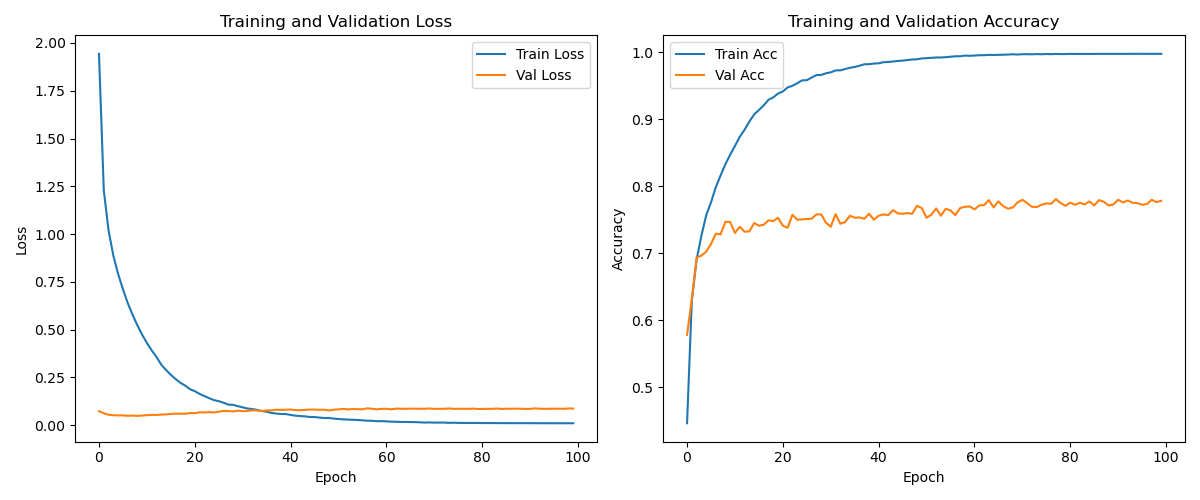
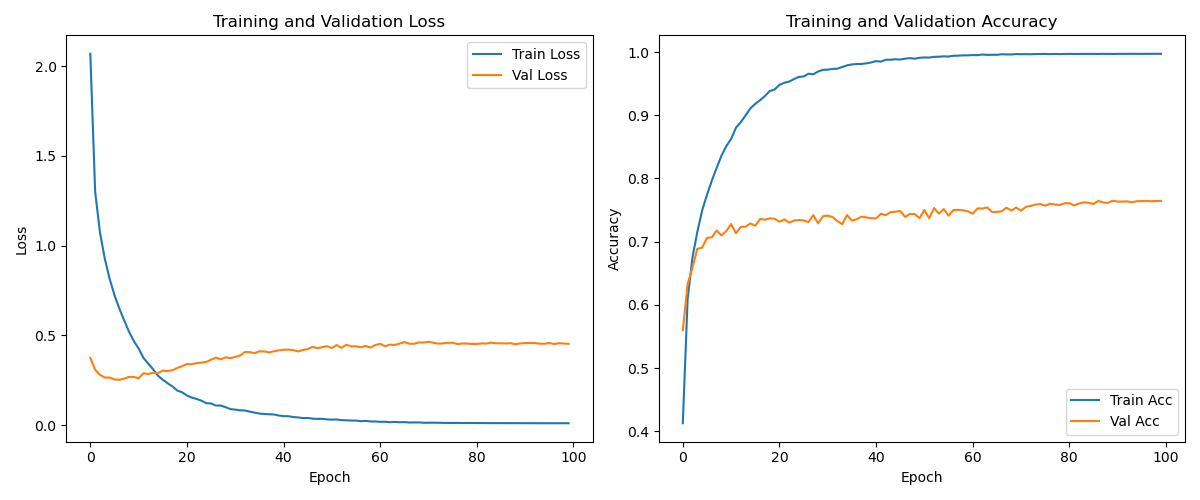
implement strong data augmentation

diff --git a/baseline/action_recognition/cascadeformer_1_1/joint/ntu_60_own/NTU_utils.py b/baseline/action_recognition/cascadeformer_1_1/joint/ntu_60_own/NTU_utils.py
@@ -6,9 +6,7 @@ from sklearn.model_selection import train_test_split
 from base_dataset import ActionRecognitionDataset
 from torch.utils.data import DataLoader
 from tqdm import tqdm
-import torch
 import random
-from torch.nn.utils.rnn import pad_sequence
 
 NUM_JOINTS_NTU = 25
 OFFICIAL_XSUB_TRAIN_SUBJECTS = [1, 2, 4, 5, 8, 9, 13, 14, 15, 16, 17, 18, 19, 25, 27, 28, 31, 34, 35, 38]
@@ -22,11 +20,7 @@ def normalize_scale(skeleton: np.ndarray) -> np.ndarray:
     scale = np.linalg.norm(skeleton, axis=-1).max() + 1e-8
     return skeleton / scale
 
-def add_gaussian_noise(sequence: np.ndarray, std=0.01) -> np.ndarray:
-    noise = np.random.normal(0, std, sequence.shape)
-    return sequence + noise
-
-def random_rotation(sequence: np.ndarray, max_angle=10) -> np.ndarray:
+def random_rotation(sequence: np.ndarray, max_angle=15) -> np.ndarray:
     angle = np.deg2rad(np.random.uniform(-max_angle, max_angle))
     cos, sin = np.cos(angle), np.sin(angle)
     R = np.array([
@@ -36,21 +30,13 @@ def random_rotation(sequence: np.ndarray, max_angle=10) -> np.ndarray:
     ])
     return np.einsum('tjd,dk->tjk', sequence, R)
 
-def random_scaling(sequence: np.ndarray, scale_range=(0.9, 1.1)) -> np.ndarray:
+def random_scaling(sequence: np.ndarray, scale_range=(0.8, 1.2)) -> np.ndarray:
     scale = np.random.uniform(*scale_range)
     return sequence * scale
 
-def random_frame_dropout(sequence: np.ndarray, drop_prob=0.1) -> np.ndarray:
-    T = sequence.shape[0]
-    mask = np.random.rand(T) > drop_prob
-    return sequence[mask]
-
-def temporal_crop(sequence: np.ndarray, crop_len=50) -> np.ndarray:
-    T = sequence.shape[0]
-    if T <= crop_len:
-        return sequence
-    start = np.random.randint(0, T - crop_len)
-    return sequence[start:start + crop_len]
+def add_gaussian_noise(sequence: np.ndarray, std=0.01) -> np.ndarray:
+    noise = np.random.normal(0, std, sequence.shape)
+    return sequence + noise
 
 def temporal_jitter(sequence: np.ndarray, max_jitter=5) -> np.ndarray:
     T = sequence.shape[0]
@@ -58,26 +44,22 @@ def temporal_jitter(sequence: np.ndarray, max_jitter=5) -> np.ndarray:
     jitter = np.clip(np.arange(T) + jitter, 0, T - 1)
     return sequence[jitter]
 
+def temporal_crop(sequence: np.ndarray, crop_len=64) -> np.ndarray:
+    T = sequence.shape[0]
+    if T <= crop_len:
+        return sequence
+    start = np.random.randint(0, T - crop_len)
+    return sequence[start:start + crop_len]
 
-def collate_fn_batch_padding(batch):
-    """
-    a collate function for DataLoader that pads sequences to the maximum length in the batch.
-    
-    Returns:
-      padded_seqs: (B, T_max, D) tensor
-      labels: (B,) or (B, something)
-      lengths: list of original sequence lengths
-    """
-    sequences, labels = zip(*batch)    
-    padded_seq = pad_sequence(sequences, batch_first=True, padding_value=0.0)
-    labels = torch.stack(labels, dim=0)
-    return padded_seq, labels
-
-def collate_fn_finetuning(batch):
-    batch, labels = zip(*batch)
-    batch = pad_sequence(batch, batch_first=True, padding_value=0.0)
-    labels = torch.stack(labels, dim=0)
-    return batch, labels
+def transform_sequence(sequence):
+    sequence = random_rotation(sequence)
+    sequence = random_scaling(sequence)
+    sequence = add_gaussian_noise(sequence)
+    if np.random.rand() < 0.5:
+        sequence = temporal_jitter(sequence)
+    if np.random.rand() < 0.5:
+        sequence = temporal_crop(sequence)
+    return normalize_scale(sequence).astype(np.float32)
 
 def read_ntu_skeleton_file(filepath: str, num_joints: int = NUM_JOINTS_NTU, T_out: int = 64, p: float = 1.0) -> np.ndarray:
     """
@@ -151,7 +133,8 @@ def build_ntu_skeleton_lists_xsub(
     skeleton_root: str,
     is_train: bool = True,
     train_subjects: List[int] = OFFICIAL_XSUB_TRAIN_SUBJECTS,
-    num_joints: int = NUM_JOINTS_NTU
+    num_joints: int = NUM_JOINTS_NTU,
+    augment: bool = True
 ) -> Tuple[List[np.ndarray], List[int]]:
     sequences, labels = [], []
 
@@ -163,37 +146,30 @@ def build_ntu_skeleton_lists_xsub(
             continue
 
         action_idx = int(filename[17:20]) - 1
-        skeleton = read_ntu_skeleton_file(filepath, num_joints)
-        hip = skeleton[:, 0:1, :]  # shape: (T, 1, 3)
-        skeleton = skeleton - hip  # shape: (T, 25, 3) - (T, 1, 3) → (T, 25, 3)
 
-        # ADD NORMALIZATION
+
+        """
+            Here, start reading data + apply augmentations
+        """
+        skeleton = read_ntu_skeleton_file(filepath, num_joints)
+        skeleton = skeleton - skeleton[:, 0:1, :] # hip centering
+
+        # always apply normalization
         skeleton = normalize_scale(skeleton)
         skeleton = skeleton.astype(np.float32)
 
         # HAHA! LET'S DO SOME AUGMENTATIONS
-        if is_train:
-            # FIXME: WE CAN TUNE THIS
-            threshold = 0.1
-            if np.random.rand() < threshold:
-                skeleton = add_gaussian_noise(skeleton, std=0.01).astype(np.float32)
-            if np.random.rand() < threshold:
-                skeleton = random_rotation(skeleton, max_angle=10).astype(np.float32)
-            if np.random.rand() < threshold:
-                skeleton = random_scaling(skeleton, scale_range=(0.9, 1.1)).astype(np.float32)
-            # if np.random.rand() < threshold:
-            #     skeleton = random_frame_dropout(skeleton, drop_prob=0.1).astype(np.float32)
-            # if np.random.rand() < threshold:
-            #     skeleton = temporal_crop(skeleton, crop_len=50).astype(np.float32)
-            # if np.random.rand() < threshold:
-            #     skeleton = temporal_jitter(skeleton, max_jitter=5).astype(np.float32)
+        if augment and is_train:
+            skeleton = transform_sequence(skeleton)
 
         sequences.append(skeleton)
         labels.append(action_idx)
 
     # cache them
-    if is_train:
-        save_cached_data(sequences, labels, path="ntu_cache_train_sub_64_10.npz")
+    if is_train and augment:
+        save_cached_data(sequences, labels, path="ntu_cache_train_sub_64_10_augmented.npz")
+    elif is_train and not augment:
+        save_cached_data(sequences, labels, path="ntu_cache_train_sub_64_10_validation.npz")
     else:
         save_cached_data(sequences, labels, path="ntu_cache_test_sub_64_10.npz")
 
@@ -203,7 +179,8 @@ def build_ntu_skeleton_lists_xview(
     skeleton_root: str,
     is_train: bool = True,
     train_cameras: List[int] = OFFICIAL_XVIEW_TRAIN_CAMERAS,
-    num_joints: int = NUM_JOINTS_NTU
+    num_joints: int = NUM_JOINTS_NTU,
+    augment: bool = True
 ) -> Tuple[List[np.ndarray], List[int]]:
     """
     Build NTU RGB+D dataset using Cross-View split.
@@ -228,13 +205,26 @@ def build_ntu_skeleton_lists_xview(
         # Extract action label (zero-based)
         action_idx = int(filename[17:20]) - 1
 
-        skeleton = read_ntu_skeleton_file(filepath, num_joints) # (T, 25, 3)
-        hip = skeleton[:, 0:1, :]  # shape: (T, 1, 3)
-        skeleton = skeleton - hip  # shape: (T, 25, 3) - (T, 1, 3) → (T, 25, 3)
-
+        """
+        Read skeleton data and apply augmentations
+        """
+        skeleton = read_ntu_skeleton_file(filepath, num_joints)
+        skeleton = skeleton - skeleton[:, 0:1, :]  # hip centering
+        # always apply normalization
+        skeleton = normalize_scale(skeleton)
+        skeleton = skeleton.astype(np.float32)
+        # Apply augmentations only for training set
+        if is_train:
+            skeleton = transform_sequence(skeleton)
         sequences.append(skeleton)
         labels.append(action_idx)
-
+    # cache them
+    if is_train and augment:
+        save_cached_data(sequences, labels, path="ntu_cache_train_view_64_10_augmented.npz")
+    elif is_train and not augment:
+        save_cached_data(sequences, labels, path="ntu_cache_train_view_64_10_validation.npz")
+    else:
+        save_cached_data(sequences, labels, path="ntu_cache_test_view_64_10.npz")
     return sequences, labels
 
 
@@ -276,24 +266,25 @@ def save_cached_data(sequences, labels, path="ntu_cache_train_sub.npz"):
 if __name__ == "__main__":
     import time
     t_start = time.time()
-    
-    all_seq, all_lbl = build_ntu_skeleton_lists_xsub('nturgb+d_skeletons', is_train=False)
-
+    train_seq, train_lbl = build_ntu_skeleton_lists_xsub('nturgb+d_skeletons', is_train=True, augment=True)
+    all_seq_clean, all_lbl_clean = build_ntu_skeleton_lists_xsub('nturgb+d_skeletons', is_train=True, augment=False)
+    _, _, val_seq, val_lbl = split_train_val(all_seq_clean, all_lbl_clean, val_ratio=0.15)
+    test_seq, test_lbl = build_ntu_skeleton_lists_xsub('nturgb+d_skeletons', is_train=False, augment=False)
     t_end = time.time()
-    print(f"[INFO] Time taken to load NTU skeletons: {t_end - t_start:.2f} seconds")
-    print(f"[VERIFY] Number of sequences: {len(all_seq)}")
-    print(f"[VERIFY] Number of unique labels: {len(set(all_lbl))}")
-    #tr_seq, tr_lbl, val_seq, val_lbl = split_train_val(all_seq, all_lbl, val_ratio=0.15)
 
-    # check the shape of a sample sequence
-    print(f"[VERIFY] Sample sequence shape: {all_seq[0].shape}")
-    print(f"[VERIFY] Sample sequence shape: {all_seq[15].shape}")
+    print(f"Time taken: {t_end - t_start:.2f} seconds")
+    print(f"Train sequences: {len(train_seq)}, Train labels: {len(train_lbl)}")
+    print(f"Validation sequences: {len(val_seq)}, Validation labels: {len(val_lbl)}")
+    print(f"Sample train sequence shape: {train_seq[0].shape}, dtype: {train_seq[0].dtype}")
+    print(f"Sample validation sequence shape: {val_seq[0].shape}, dtype: {val_seq[0].dtype}")  
 
-    test_set = ActionRecognitionDataset(all_seq, all_lbl)
-    #train_set = ActionRecognitionDataset(tr_seq, tr_lbl)
-    #val_set = ActionRecognitionDataset(val_seq, val_lbl)
-    test_loader = DataLoader(
-        test_set,
-        batch_size=32,
-        shuffle=False,
-    )
+    train_dataset = ActionRecognitionDataset(train_seq, train_lbl)
+    val_dataset = ActionRecognitionDataset(val_seq, val_lbl)
+    test_dataset = ActionRecognitionDataset(test_seq, test_lbl)
+
+    train_loader = DataLoader(train_dataset, batch_size=64, shuffle=True)
+    val_loader = DataLoader(val_dataset, batch_size=64, shuffle=False)
+    test_loader = DataLoader(test_dataset, batch_size=64, shuffle=False)
+    print(f"Train DataLoader: {len(train_loader)} batches")
+    print(f"Validation DataLoader: {len(val_loader)} batches")
+    print(f"Test DataLoader: {len(test_loader)} batches")

diff --git a/baseline/action_recognition/cascadeformer_1_1/joint/ntu_60_own/NTU_main.py b/baseline/action_recognition/cascadeformer_1_1/joint/ntu_60_own/NTU_main.py
@@ -62,13 +62,12 @@ def main():
     # load the dataset
     import time
     t_start = time.time()
-    all_seq, all_lbl = load_cached_data("ntu_cache_train_sub_64_10.npz")    
+    all_seq_clean, all_lbl_clean = load_cached_data('ntu_cache_train_sub_64_10_augmented.npz')
+    train_seq, train_lbl, val_seq, val_lbl = split_train_val(all_seq_clean, all_lbl_clean, val_ratio=0.20)
     t_end = time.time()
-    print(f"[INFO] Time taken to load NTU skeletons: {t_end - t_start:.2f} seconds")    
-    train_seq, train_lbl, val_seq, val_lbl = split_train_val(all_seq, all_lbl, val_ratio=0.15)
+    print(f"[INFO] Time taken to load NTU skeletons: {t_end - t_start:.2f} seconds")
     train_dataset = ActionRecognitionDataset(train_seq, train_lbl)
     val_dataset = ActionRecognitionDataset(val_seq, val_lbl)
-
 
     # get the number of classes
     num_classes = len(set(train_lbl))

diff --git a/baseline/action_recognition/cascadeformer_1_1/joint/ntu_60_own/penn_utils.py b/baseline/action_recognition/cascadeformer_1_1/joint/ntu_60_own/penn_utils.py
@@ -3,13 +3,9 @@ import numpy as np
 import torch
 from scipy.io import loadmat
 from torch.nn.utils.rnn import pad_sequence
-from torch.utils.data import random_split
-from torch.utils.data import Subset
 from sklearn.model_selection import train_test_split
-from collections import defaultdict
 import os
 import glob
-from tqdm import tqdm
 from typing import List, Tuple, Dict
 
 NUM_JOINTS_PENN = 13

diff --git a/baseline/action_recognition/cascadeformer_1_1/joint/ntu_60_own/NTU_inference.py b/baseline/action_recognition/cascadeformer_1_1/joint/ntu_60_own/NTU_inference.py
@@ -102,7 +102,7 @@ def main():
     print("=" * 50)
 
     # load the dataset
-    test_seq, test_lbl = load_cached_data("ntu_cache_test_sub_64_10.npz")    
+    test_seq, test_lbl = load_cached_data('ntu_cache_test_sub_64_10.npz')    
     test_dataset = ActionRecognitionDataset(test_seq, test_lbl)
     
     # get the number of classes

diff --git a/TUNING_LOG.md b/TUNING_LOG.md
@@ -198,13 +198,7 @@ cross-subject evaluation:
 | 30%, 64+1.0 | linear | **1024** | 8 | **8** | no | 1e-4 | 100 | 3e-5, wd=1e-2, CosineAnnealingLR, epoch-level | 100 | 73.61% |
 | <tr><td colspan="11" align="center"> CascadeFormer 2.0 </td></tr> |
 | 30%, 64+1.0 | linear | **800** | 8 | **2** | no | 1e-4 | 100 | 3e-5, wd=1e-2, CosineAnnealingLR, epoch-level | 100 | 54.48% |
-
-
-
-
-
-
-
+| 30%, 64+1.0 | linear | **800** | 8 | **2** | no | 1e-4 | 100 | 3e-5, wd=1e-2, CosineAnnealingLR, epoch-level | 100 | 58.29%, 20% validation |
 
 
 ## Baseline - Experiment (NW-UCLA, cross-view)

diff --git a/README.md b/README.md
@@ -7,6 +7,11 @@ Case study for CascadeFormer 1.1 (with convolution):
 1. layers (fix hidden size = 512, heads = 8): 8 layers: 73.07%; 12 layers: 73.97%
 2. hidden size (fix layers = 8, heads = 8): 512: 73.97%; 768: 73.48%; 1024: 73.61%
 
+Strong data augmentation:
+
+1. 100% data augmentation instead of just 10%?
+2. 74.10% -> ?
+
 ## CascadeFormer 1.X series
 
 ![alt text](docs/CascadeFormer_1.png)
